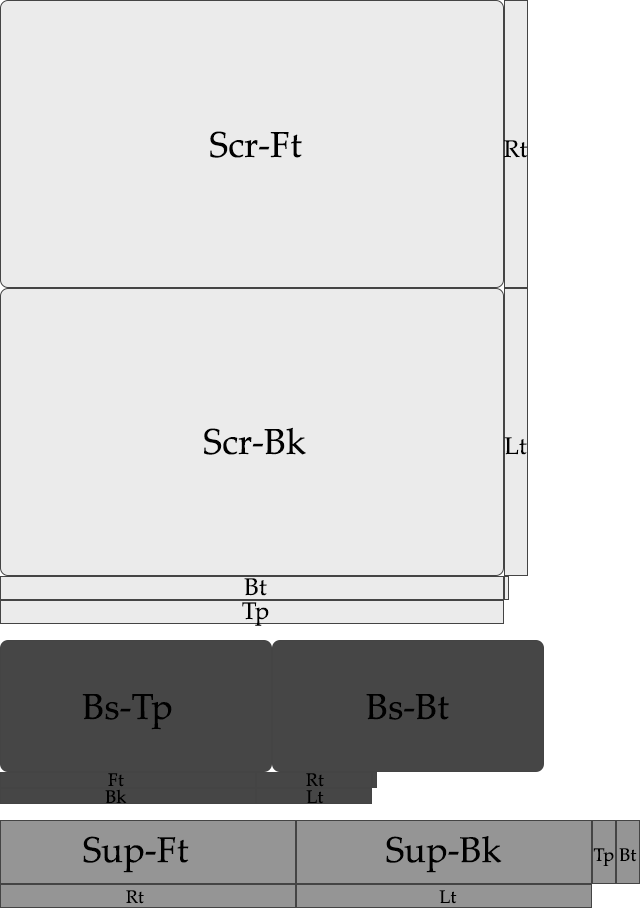
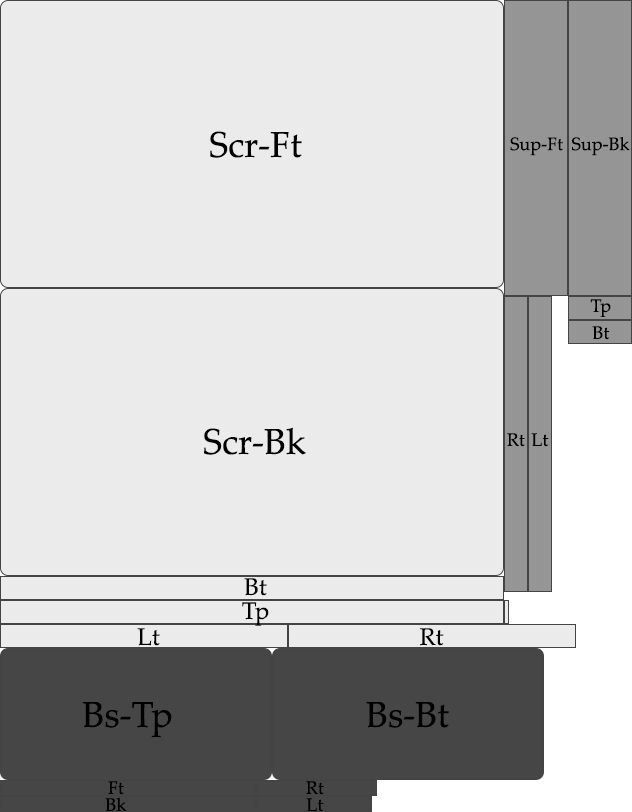
update monitor atlas and slices

diff --git a/models/monitor/monitorStyle.css b/models/monitor/monitorStyle.css
@@ -20,6 +20,27 @@
   width:31.5em;
   height:18em;
 }
+.monitor-screen .rt {
+  background: url(https://cdn.jsdelivr.net/gh/tnharvey/3DCSSTrainingRoom@scenarioStart/models/monitor/Monitor-Atlas.png) 0px 0px;
+}
+.monitor-screen .lt {
+  background: url(https://cdn.jsdelivr.net/gh/tnharvey/3DCSSTrainingRoom@scenarioStart/models/monitor/Monitor-Atlas.png) 0px 0px;
+}
+.monitor-screen .tp {
+  background: url(https://cdn.jsdelivr.net/gh/tnharvey/3DCSSTrainingRoom@scenarioStart/models/monitor/Monitor-Atlas.png) 0px -288px;
+}
+.monitor-screen .bm {
+  background: url(https://cdn.jsdelivr.net/gh/tnharvey/3DCSSTrainingRoom@scenarioStart/models/monitor/Monitor-Atlas.png) 0px 0px;
+}
+.monitor-screen .ft {
+  background: url(https://cdn.jsdelivr.net/gh/tnharvey/3DCSSTrainingRoom@scenarioStart/models/monitor/Monitor-Atlas.png) 0px -599px;
+}
+.monitor-screen .bk {
+  background: url(https://cdn.jsdelivr.net/gh/tnharvey/3DCSSTrainingRoom@scenarioStart/models/monitor/Monitor-Atlas.png) 0px -575px;
+}
+.monitor-screen .cr .side {
+  background: url(https://cdn.jsdelivr.net/gh/tnharvey/3DCSSTrainingRoom@scenarioStart/models/monitor/Monitor-Atlas.png) -504px -575px;
+}
 .monitor-screen .face {
   background-color:#5c5c5c;
 }
@@ -92,122 +113,161 @@
 .monitor-screen .side {
   width:0.2929491924311227em;
 }
-/* .cub-1 styles */
-.cub-1 {
+/* .monitor-base styles */
+.monitor-base {
   transform:translate3D(0em, -0.5em, 0em) rotateX(0deg) rotateY(0deg) rotateZ(0deg);
   opacity:1;
   width:17em;
   height:1em;
   margin:-0.5em 0 0 -8.5em;
 }
-.cub-1 .ft {
+.monitor-base .ft {
   transform:translateZ(4.125em);
 }
-.cub-1 .bk {
+.monitor-base .bk {
   transform:translateZ(-4.125em) rotateY(180deg);
 }
-.cub-1 .rt, .cub-1 .lt {
+.monitor-base .rt, .monitor-base .lt {
   width:8.25em;
   height:1em;
 }
-.cub-1 .tp, .cub-1 .bm {
+.monitor-base .tp, .monitor-base .bm {
   width:17em;
   height:8.25em;
 }
-.cub-1 .face {
+.monitor-base .face {
   background-color:#5c5c5c;
 }
-.cub-1 .ft {
+.monitor-base .ft {
   width:16em;
   margin-left:0.5em;
 }
-.cub-1 .bk {
+.monitor-base .bk {
   width:16em;
   margin-left:-0.5em;
 }
-.cub-1 .rt, .cub-1 .lt {
+.monitor-base .rt, .monitor-base .lt {
   width:7.25em;
 }
-.cub-1 .tp, .cub-1 .bm, .cub-1 .tp .photon-shader, .cub-1 .bm .photon-shader {
+.monitor-base .rt {
+  background: url(https://cdn.jsdelivr.net/gh/tnharvey/3DCSSTrainingRoom@scenarioStart/models/monitor/Monitor-Atlas.png) -256px -788px;
+}
+.monitor-base .lt {
+  background: url(https://cdn.jsdelivr.net/gh/tnharvey/3DCSSTrainingRoom@scenarioStart/models/monitor/Monitor-Atlas.png) -256px -772px;
+}
+.monitor-base .tp {
+  background: url(https://cdn.jsdelivr.net/gh/tnharvey/3DCSSTrainingRoom@scenarioStart/models/monitor/Monitor-Atlas.png) 0px -640px;
+}
+.monitor-base .bm {
+  background: url(https://cdn.jsdelivr.net/gh/tnharvey/3DCSSTrainingRoom@scenarioStart/models/monitor/Monitor-Atlas.png) -272px -640px;
+}
+.monitor-base .ft {
+  background: url(https://cdn.jsdelivr.net/gh/tnharvey/3DCSSTrainingRoom@scenarioStart/models/monitor/Monitor-Atlas.png) 0px -772px;
+}
+.monitor-base .bk {
+  background: url(https://cdn.jsdelivr.net/gh/tnharvey/3DCSSTrainingRoom@scenarioStart/models/monitor/Monitor-Atlas.png) 0px -788px;
+}
+.monitor-base .cr .side {
+  background: url(https://cdn.jsdelivr.net/gh/tnharvey/3DCSSTrainingRoom@scenarioStart/models/monitor/Monitor-Atlas.png) -372px -772px;
+}
+.monitor-base .tp, .monitor-base .bm, .monitor-base .tp .photon-shader, .monitor-base .bm .photon-shader {
   border-radius:0.5em;
 }
-.cub-1 .cr {
+.monitor-base .cr {
   width:0.5em;
   left:0.25em;
 }
-.cub-1 .cr-0 {
+.monitor-base .cr-0 {
   transform: translate3D(16em, 0, 3.625em);
 }
-.cub-1 .cr-1 {
+.monitor-base .cr-1 {
   transform: translate3D(16em, 0, -3.625em);
 }
-.cub-1 .cr-2 {
+.monitor-base .cr-2 {
   transform: translate3D(0, 0, -3.625em);
 }
-.cub-1 .cr-3 {
+.monitor-base .cr-3 {
   transform: translate3D(0, 0, 3.625em);
 }
-.cub-1 .cr-0 .s0 {
+.monitor-base .cr-0 .s0 {
   transform: rotateY(15deg) translate3D(-50%, 0, 0.475em);
 }
-.cub-1 .cr-0 .s1 {
+.monitor-base .cr-0 .s1 {
   transform: rotateY(45deg) translate3D(-50%, 0, 0.475em);
 }
-.cub-1 .cr-0 .s2 {
+.monitor-base .cr-0 .s2 {
   transform: rotateY(75deg) translate3D(-50%, 0, 0.475em);
 }
-.cub-1 .cr-1 .s0 {
+.monitor-base .cr-1 .s0 {
   transform: rotateY(105deg) translate3D(-50%, 0, 0.475em);
 }
-.cub-1 .cr-1 .s1 {
+.monitor-base .cr-1 .s1 {
   transform: rotateY(135deg) translate3D(-50%, 0, 0.475em);
 }
-.cub-1 .cr-1 .s2 {
+.monitor-base .cr-1 .s2 {
   transform: rotateY(165deg) translate3D(-50%, 0, 0.475em);
 }
-.cub-1 .cr-2 .s0 {
+.monitor-base .cr-2 .s0 {
   transform: rotateY(195deg) translate3D(-50%, 0, 0.475em);
 }
-.cub-1 .cr-2 .s1 {
+.monitor-base .cr-2 .s1 {
   transform: rotateY(225deg) translate3D(-50%, 0, 0.475em);
 }
-.cub-1 .cr-2 .s2 {
+.monitor-base .cr-2 .s2 {
   transform: rotateY(255deg) translate3D(-50%, 0, 0.475em);
 }
-.cub-1 .cr-3 .s0 {
+.monitor-base .cr-3 .s0 {
   transform: rotateY(285deg) translate3D(-50%, 0, 0.475em);
 }
-.cub-1 .cr-3 .s1 {
+.monitor-base .cr-3 .s1 {
   transform: rotateY(315deg) translate3D(-50%, 0, 0.475em);
 }
-.cub-1 .cr-3 .s2 {
+.monitor-base .cr-3 .s2 {
   transform: rotateY(345deg) translate3D(-50%, 0, 0.475em);
 }
-.cub-1 .side {
+.monitor-base .side {
   width:0.2929491924311227em;
 }
-/* .cub-2 styles */
-.cub-2 {
+/* .monitor-support styles */
+.monitor-support {
   transform:translate3D(0em, -10.25em, -1.375em) rotateX(0deg) rotateY(0deg) rotateZ(0deg);
   opacity:1;
   width:4em;
   height:18.5em;
   margin:-9.25em 0 0 -2em;
 }
-.cub-2 .ft {
+.monitor-support .ft {
   transform:translateZ(0.75em);
 }
-.cub-2 .bk {
+.monitor-support .bk {
   transform:translateZ(-0.75em) rotateY(180deg);
 }
-.cub-2 .rt, .cub-2 .lt {
+.monitor-support .rt, .monitor-support .lt {
   width:1.5em;
   height:18.5em;
 }
-.cub-2 .tp, .cub-2 .bm {
+.monitor-support .tp, .monitor-support .bm {
   width:4em;
   height:1.5em;
 }
-.cub-2 .face {
+.monitor-support .rt {
+  background: url(https://cdn.jsdelivr.net/gh/tnharvey/3DCSSTrainingRoom@scenarioStart/models/monitor/Monitor-Atlas.png) 0px 0px;
+}
+.monitor-support .lt {
+  background: url(https://cdn.jsdelivr.net/gh/tnharvey/3DCSSTrainingRoom@scenarioStart/models/monitor/Monitor-Atlas.png) 0px 0px;
+}
+.monitor-support .tp {
+  background: url(https://cdn.jsdelivr.net/gh/tnharvey/3DCSSTrainingRoom@scenarioStart/models/monitor/Monitor-Atlas.png) 0px 0px;
+}
+.monitor-support .ft {
+  background: url(https://cdn.jsdelivr.net/gh/tnharvey/3DCSSTrainingRoom@scenarioStart/models/monitor/Monitor-Atlas.png) 0px 0px;
+}
+.monitor-support .bk {
+  background: url(https://cdn.jsdelivr.net/gh/tnharvey/3DCSSTrainingRoom@scenarioStart/models/monitor/Monitor-Atlas.png) 0px 0px;
+}
+.monitor-support .bm {
+  background: url(https://cdn.jsdelivr.net/gh/tnharvey/3DCSSTrainingRoom@scenarioStart/models/monitor/Monitor-Atlas.png) 0px 0px;
+}
+.monitor-support .face {
   background-color:#5c5c5c;
 }

diff --git a/models/monitor/monitorDom.html b/models/monitor/monitorDom.html
@@ -26,7 +26,7 @@
     <div class="face side s2"></div>
   </div>
 </div>
-<div class="shape cuboid-2 cub-1">
+<div class="shape cuboid-2 monitor-base">
   <div class="face ft"></div>
   <div class="face bk"></div>
   <div class="face rt"></div>
@@ -54,7 +54,7 @@
     <div class="face side s2"></div>
   </div>
 </div>
-<div class="shape cuboid-3 cub-2">
+<div class="shape cuboid-3 monitor-support">
   <div class="face ft"></div>
   <div class="face bk"></div>
   <div class="face rt"></div>
